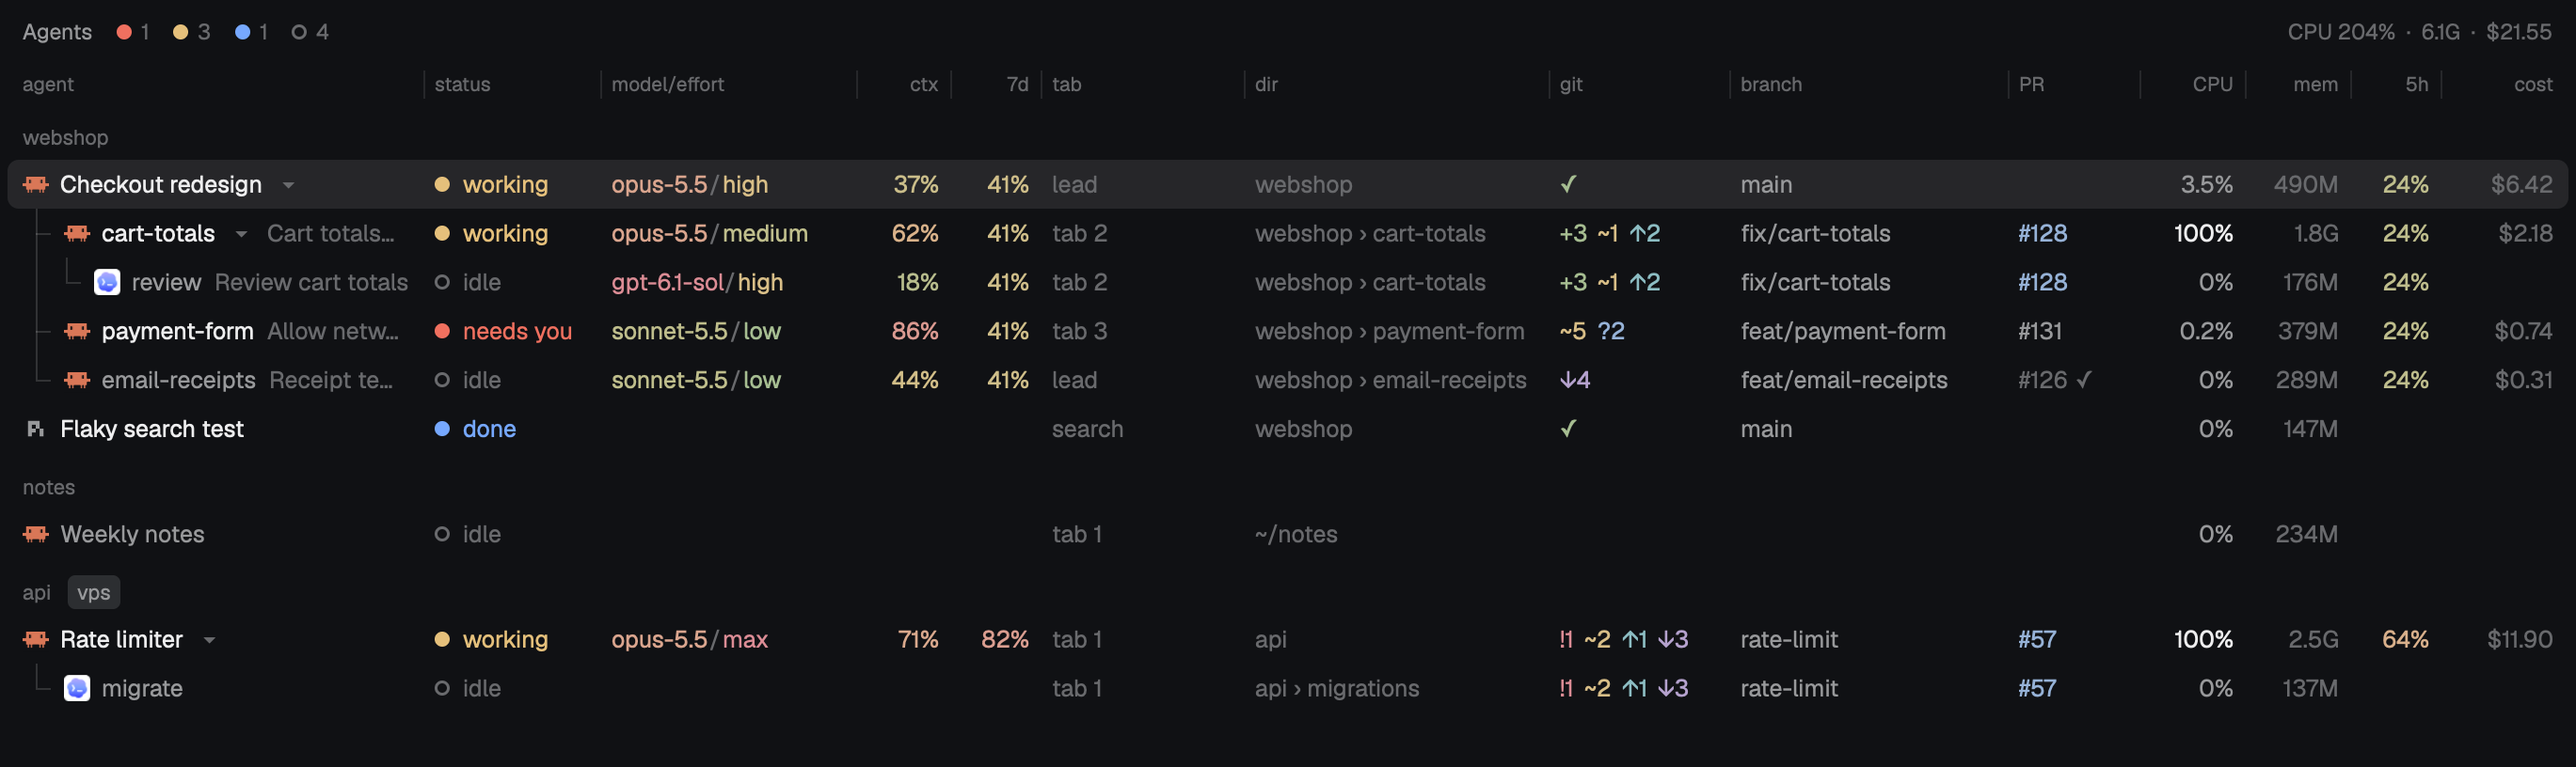
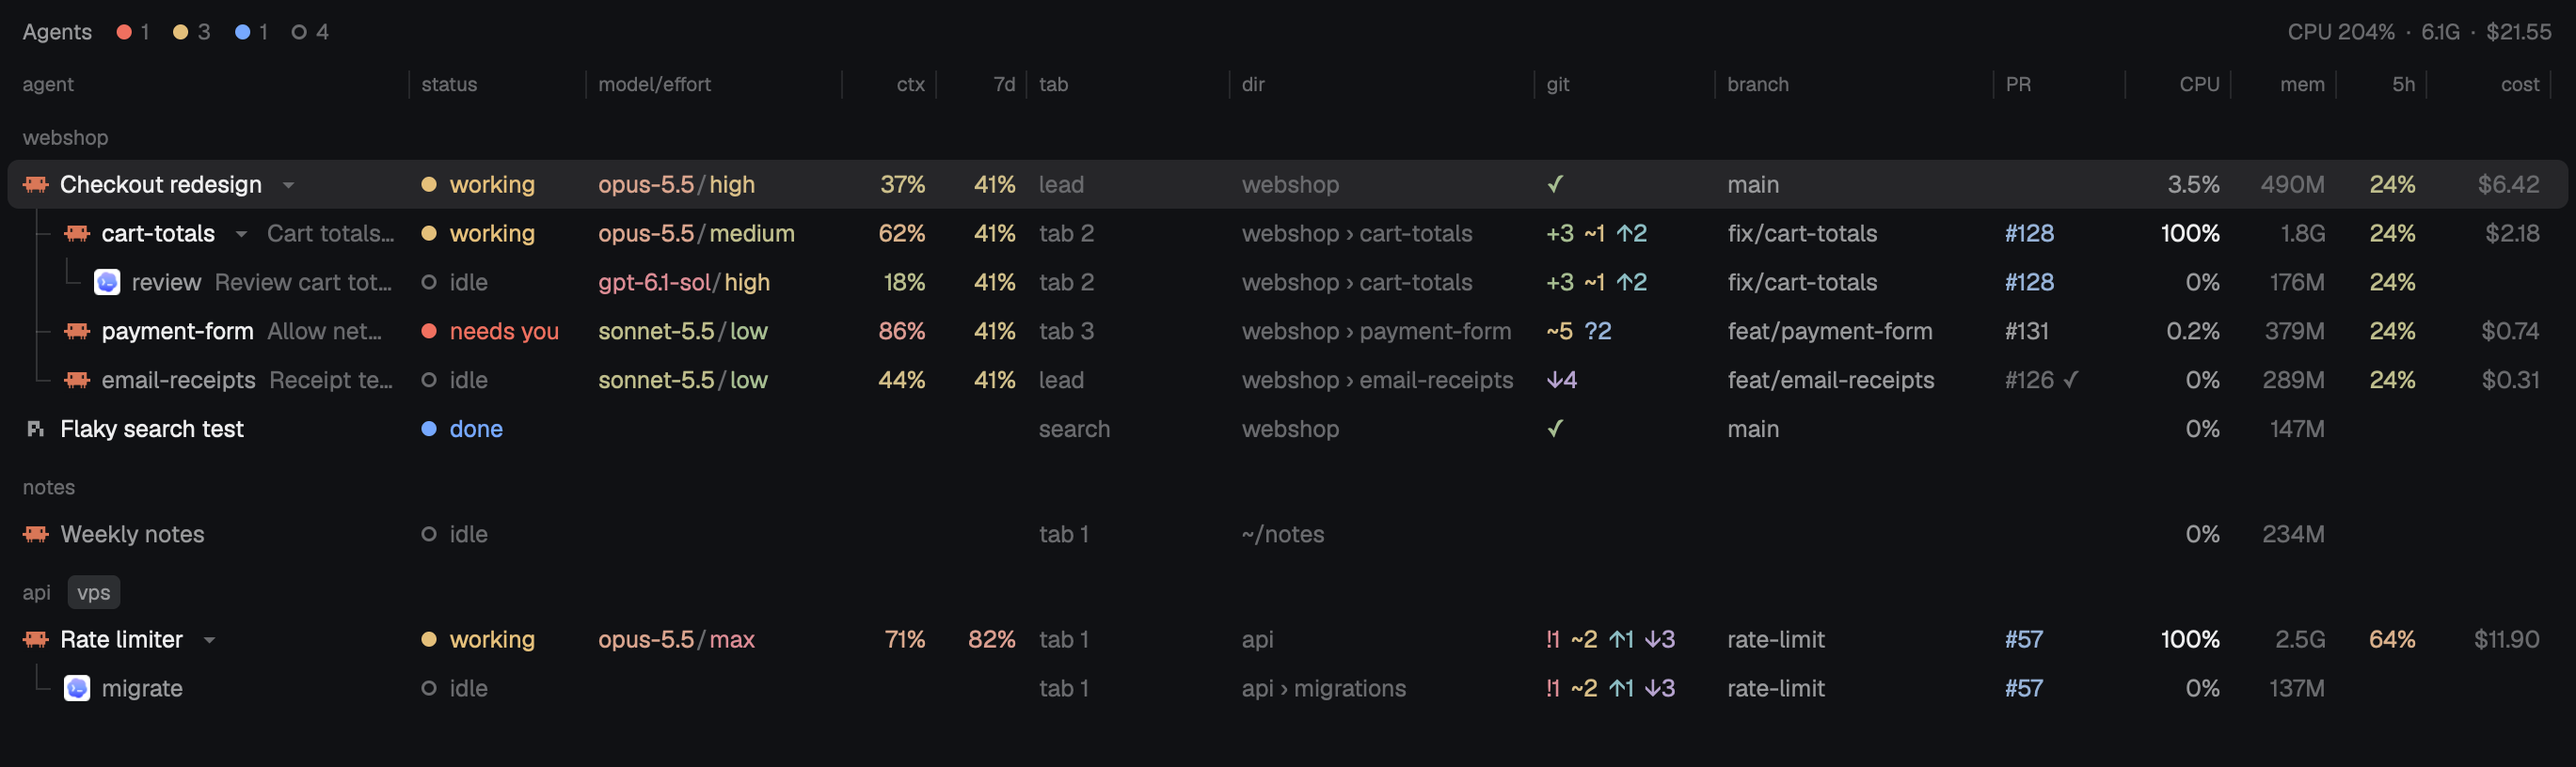
fix: second review round; the table fits a full pane; new preview
- the first readings count as in only when no job is under way in any copy
  and there was an agent to read for: a second copy opened cold no longer
  drops its held columns to get them back a tick later; the hold lasts a
  minute at most
- the columns stay while a divider is held
- measured cells do not wrap
- the agent column starts 200 px wide, so all thirteen columns fit a pane
  that has the window to itself
- preview.png retaken

diff --git a/mods/herdr-agents/main.js b/mods/herdr-agents/main.js
@@ -38,7 +38,7 @@ const PUBLISH_MS = 120; // jobs ending close together are drawn once
 const JOB_LOST_MS = 120000; // a job that has not come back by then is given up on
 const DRAG_IDLE_MS = 4000; // a held divider that has not moved for this long is taken as let go
 const GIT_WAIT_MAX_MS = 120000; // however slow git was, a checkout is asked again after this
-const HOLD_MS = 30000; // just opened: the columns of the last time stay until the readings are in, this long at most
+const HOLD_MS = 60000; // just opened: the columns of the last time stay until the readings are in, this long at most
 
 // Processes, branches and pull requests as read from the machines. Plain data, shared by every
 // copy of the mod and kept while the app runs: opened over the window a second time, the
@@ -55,6 +55,7 @@ const newStore = () => ({
   ghOff: new Map(), // machine -> when to try gh again
   homes: new Map(), // another machine -> its home folder
   tele: new Map(), // telemetry folder as given in props ("": the machine's own) -> { records, files }
+  busy: 0, // jobs under way, in all copies together
 });
 const STORE = newStore();
 const URGENCY = { blocked: 4, done: 3, working: 2, idle: 1, unknown: 0 };
@@ -109,7 +110,8 @@ export default class HerdrAgents extends View {
     this.sizeKept = JSON.stringify(this.size);
     this.laid = false; // whether Herdr has said how big this copy is
     this.opened = Date.now();
-    this.settled = false; // whether this copy's first readings are all in
+    this.settled = false; // whether the first readings are all in
+    this.began = false; // whether there was an agent to read anything for
     this.teleRead = false;
     this.folded = new Set();
     this.cursor = null;
@@ -120,6 +122,7 @@ export default class HerdrAgents extends View {
     this.drag = null; // { key, min, x, width, now, at } while a column's divider is held
     this.fit = null; // { key, turn } while a column is measured to fit what is in it
     this.across = 0; // how wide the table was last drawn
+    this.keys = null; // the columns it was last drawn with
     this.turn = 0;
     this.last = null; // the rows as last drawn
     this.loadWidths();
@@ -192,6 +195,8 @@ export default class HerdrAgents extends View {
     const started = Date.now();
     if (started - (this.running.get(name) ?? -Infinity) < JOB_LOST_MS) return;
     this.running.set(name, started);
+    const data = this.data;
+    data.busy++;
     cx.spawn(async (cx) => {
       let changed = false;
       try {
@@ -199,15 +204,20 @@ export default class HerdrAgents extends View {
       } catch (error) {
         console.warn(`herdr-agents: ${name}: ${error}`);
       } finally {
+        data.busy--;
         if (this.running.get(name) === started) this.running.delete(name);
       }
       if (this.settle() || changed) this.later(cx);
     });
   }
 
-  /** Whether the first readings have just all come in: from here on an empty column goes. */
+  /**
+   * Whether the first readings have just all come in: from here on an empty column goes. A
+   * job of this copy that had nothing to do, because another copy is at the same reading,
+   * does not count as that reading being in; nor does a round with no agents to ask about.
+   */
   settle() {
-    if (this.settled || !this.teleRead || this.running.size) return false;
+    if (this.settled || !this.teleRead || !this.began || this.running.size || this.data.busy) return false;
     return (this.settled = true);
   }
 
@@ -228,6 +238,7 @@ export default class HerdrAgents extends View {
   /** Every machine has jobs of its own: one that is slow or away holds up nobody else. */
   tick(cx) {
     const { machines, folders } = this.targets();
+    if (machines.length) this.began = true;
     for (const machine of machines) {
       const key = machine ?? "";
       this.job(`processes ${key}`, cx, () => this.readProcesses(machine));
@@ -992,7 +1003,7 @@ export default class HerdrAgents extends View {
    */
   measure(t, model, fit) {
     const column = fit.key === NAME.key ? NAME : COLUMNS.find((one) => one.key === fit.key);
-    return v_flex().id(`herdr-agents-fit-${fit.key}-${fit.turn}`).absolute().left(0).top(0).opacity(0).items_start().text_size(12.5)
+    return v_flex().id(`herdr-agents-fit-${fit.key}-${fit.turn}`).absolute().left(0).top(0).opacity(0).items_start().whitespace_nowrap().text_size(12.5)
       .on_size_change((size, cx) => this.fitted(fit, size.width, cx))
       .child(div().flex_none().text_size(10.5).child(column.label))
       .children(model.rows.map((row) => (column === NAME ? this.nameCell(t, row, null) : this.cell(t, row, column, true))));
@@ -1112,7 +1123,9 @@ export default class HerdrAgents extends View {
     const mode = width < 110 ? "rail" : width < 520 ? "compact" : "table";
     // The table holds to the left edge: the name, then the columns, each as wide as it was made.
     const live = (column) => (drag?.key === column.key ? { ...column, width: drag.now } : column);
-    const shown = new Set(this.shownColumns(model));
+    // While a divider is held the columns stay: one going would take the divider from under the pointer.
+    if (!drag || !this.keys) this.keys = this.shownColumns(model);
+    const shown = new Set(this.keys);
     const name = live(sized([NAME], this.widths)[0]);
     const columns = sized(COLUMNS.filter((column) => shown.has(column.key)), this.widths).map(live);
     // Wider than the block, the table scrolls sideways; narrower, the rest stays empty. While a

diff --git a/test/columns.test.js b/test/columns.test.js
@@ -41,11 +41,12 @@ test("dragged: a column's right divider moved right makes it wider", () => {
   assert.equal(dragged(150, -500), MIN_WIDTH);
   assert.equal(dragged(150, 5000), MAX_WIDTH);
   // The name has a least width of its own.
-  assert.equal(dragged(230, -500, NAME.min), NAME.min);
+  assert.equal(dragged(200, -500, NAME.min), NAME.min);
 });
 
-test("with every column at its own width the table fits a 1400 px block", () => {
-  assert.ok(28 + tableWidth(NAME.width, COLUMNS, 12) <= 1400);
+test("with every column at its own width the table fits a 1370 px block", () => {
+  // A pane that has the window to itself, beside Herdr's sidebar, on a 1728 px screen.
+  assert.ok(28 + tableWidth(NAME.width, COLUMNS, 12) <= 1370);
 });
 
 test("tableWidth adds the name, the columns and the gaps before them", () => {

diff --git a/mods/herdr-agents/lib/columns.js b/mods/herdr-agents/lib/columns.js
@@ -1,7 +1,7 @@
 // The table's columns and their widths. No host calls.
 
 /** The first column: the agent's name, with its tree lines, icon and title. */
-export const NAME = { key: "name", label: "agent", width: 230, min: 120 };
+export const NAME = { key: "name", label: "agent", width: 200, min: 120 };
 
 /** The columns after the name, in display order. `right`: numbers, set against the right edge. */
 export const COLUMNS = [

diff --git a/RECIPE.md b/RECIPE.md
@@ -34,7 +34,7 @@ A table row is 26px, with 12px between columns:
 
 | Column | Width | Shows | Color |
 | --- | --- | --- | --- |
-| agent | 230 (120 at least) | tree lines, the program's 14px icon (a picture as it is, a one-color glyph in `muted`), the name (the terminal's name, else its title, else its program), the fold control on a row with helpers, then the title in `dim` when it adds something | `foreground`; `muted` when idle |
+| agent | 200 (120 at least) | tree lines, the program's 14px icon (a picture as it is, a one-color glyph in `muted`), the name (the terminal's name, else its title, else its program), the fold control on a row with helpers, then the title in `dim` when it adds something | `foreground`; `muted` when idle |
 | status | 82 | an 8px dot and `working`, `needs you`, `done` or `idle` | the status color |
 | model/effort | 124 | `opus-5.5/xhigh`: the model without `claude-` and without a date stamp, its version with a dot, then `/` (`dim`) and the effort as the file gives it; either alone when the other is missing. A long model is cut, the effort is not | the model and the effort each on the green-to-red scale below; `muted` when not known |
 | ctx | 38, right | percent of the context window used | the scale: 0 green, 50 yellow, 100 red |
@@ -63,7 +63,7 @@ A column no agent has anything for is left out: without telemetry files the five
 columns are not there.
 
 The table holds to the left edge: the name, then each column at its width, 12px between them.
-All of them at their own widths take 1396px. In a wider block the rest stays empty at the
+All of them at their own widths take 1366px. In a wider block the rest stays empty at the
 right; in a narrower one the headings and rows scroll sideways together (the top bar stays),
 with a scrollbar along the bottom. No column is dropped for want of room.
 
@@ -73,8 +73,10 @@ with a scrollbar along the bottom. No column is dropped for want of room.
   telemetry records (by telemetry folder). A copy opened again draws its first frame from
   them, then reads afresh.
 - The keys of the columns shown are kept in `localStorage` (`shown`). Until a copy's first
-  readings are all in (30 s at most), the columns of the last time stay, empty if need be;
-  after that an empty column goes. So after Herdr starts, or the mod's code is loaded again,
+  readings are all in (a minute at most), the columns of the last time stay, empty if need
+  be; after that an empty column goes. The readings are in when no job is under way in any
+  copy (a copy's own job may have had nothing to do because another copy was at the same
+  reading) and there was an agent to read for. So after Herdr starts, or the mod's code is loaded again,
   the columns stand where they will be and fill in.
 - The copy's size is kept there too (`size`), and the first frame is laid out for it; a copy
   with no size kept draws only its background until Herdr has told it its size.
@@ -203,8 +205,8 @@ status dots, 24px each, no headings.
 - Processes, branches, changes, pull requests, other machines' home folders and how they are
   reached are kept in one object
   for the whole module, so a second copy of the mod, or one opened again, shows them at once
-  and does not ask twice. Telemetry records are kept by each copy: copies may be given
-  different folders.
+  and does not ask twice. Telemetry records are kept there too, by the folder they were read
+  from: copies may be given different folders.
 
 ## Watch out
 
@@ -241,7 +243,8 @@ status dots, 24px each, no headings.
   width its `on_size_change` reports.
 - The headings and the rows scroll sideways as one: both sit in one box as wide as the table
   (the block's width at least) inside the sideways scroll area; the rows scroll up and down
-  inside that box, so the headings stay. The rows' own scrollbar would stand at the table's
+  inside that box, so the headings stay. Every measured cell needs `whitespace_nowrap`, or a
+  text wider than the block wraps and reports the block's width. The rows' own scrollbar would stand at the table's
   right edge, out of sight in a narrow block: give the rows `overflow_y_scroll` and put a
   `Scrollbar.vertical(<the rows' id>)` at the block's right edge, outside the sideways area.
   While a divider is held the box does not get narrower, or a table scrolled sideways slides
